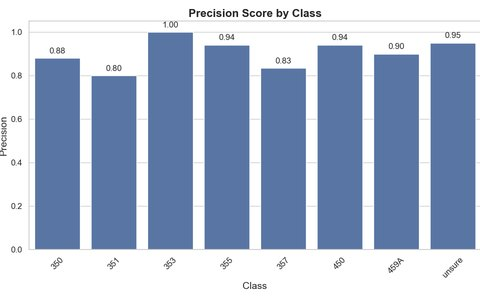
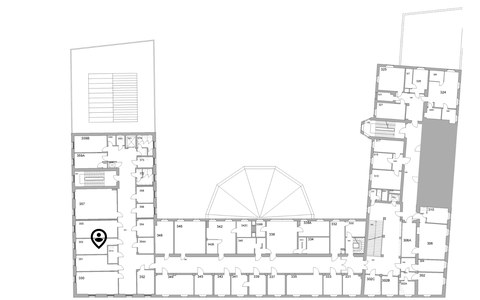
IntelliTrack: Screenshot des App-Dashboards einbinden, Galerie-Vorschau ersetzen

diff --git a/projekte/intellitrack/README.md b/projekte/intellitrack/README.md
@@ -31,6 +31,10 @@ Das Nutzer-Frontend des Systems ist eine Android-App (Kotlin), an der ich einen 
 - **WLAN-Scan-Ansicht:** Listen-Adapter, die die laufenden WiFi-Scans und erkannten Räume anzeigen
 - UI-Aufbau und Styling der Fragmente
 
+<img src="bilder/app-dashboard.png" alt="Screenshot der Android-App: Dashboard mit Gebäudeplan des 3. Obergeschosses, Positions-Marker in Raum 353, Stockwerkswahl 3 und 4 und darunter die Raumliste mit Vorhersage-Wahrscheinlichkeiten" width="300">
+
+*Das Dashboard der App: Gebäudeplan mit Positions-Marker und Stockwerkswahl, darunter die Raumliste mit den Vorhersage-Wahrscheinlichkeiten.*
+
 ## Technologien
 
 Android (Kotlin) · Python · Machine Learning (XGBoost, Random Forest, Decision Trees) · Feature Engineering · Kreuzvalidierung, GridSearch · wissenschaftliches Schreiben (ACM-Paper, LaTeX)
